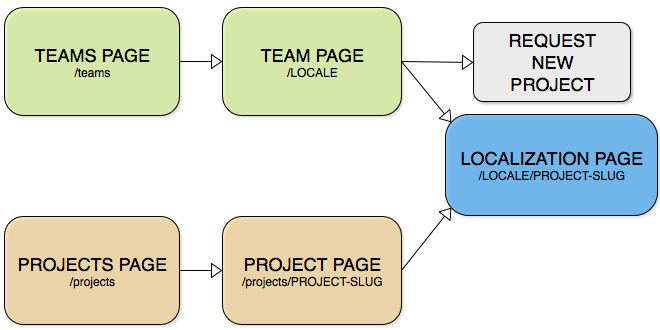
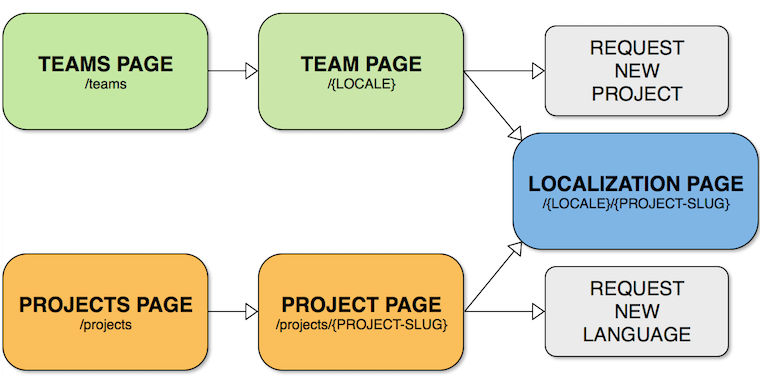
(fix #135) Document requesting new languages in Pontoon (#137)

diff --git a/tools/pontoon/teams_projects.md b/tools/pontoon/teams_projects.md
@@ -80,6 +80,16 @@ There can be up to 4 tabs available (highlighted in red):
 * **Contributors**: a list of active contributors with their statistics, filterable by time (all time, 1/3/6/12 months).
 * **Info**: information about this project.
 
+### Requesting a language
+
+It’s possible to request an additional language for a project from its *Project page*.
+
+![Request a project](/assets/images/pontoon/teams_projects/request_locale.png)
+
+Click on *REQUEST NEW LANGUAGE* (highlighted in red), select the language you want to add and then click *REQUEST NEW LANGUAGE*.
+
+An email will be sent to Pontoon’s administrators, and the localization driver in charge of the project will act on the request. The same restrictions described in the [Requesting a project](#requesting-a-project) section apply here.
+
 ## Localization page
 
 You can access a project’s *Localization page* in two ways:
